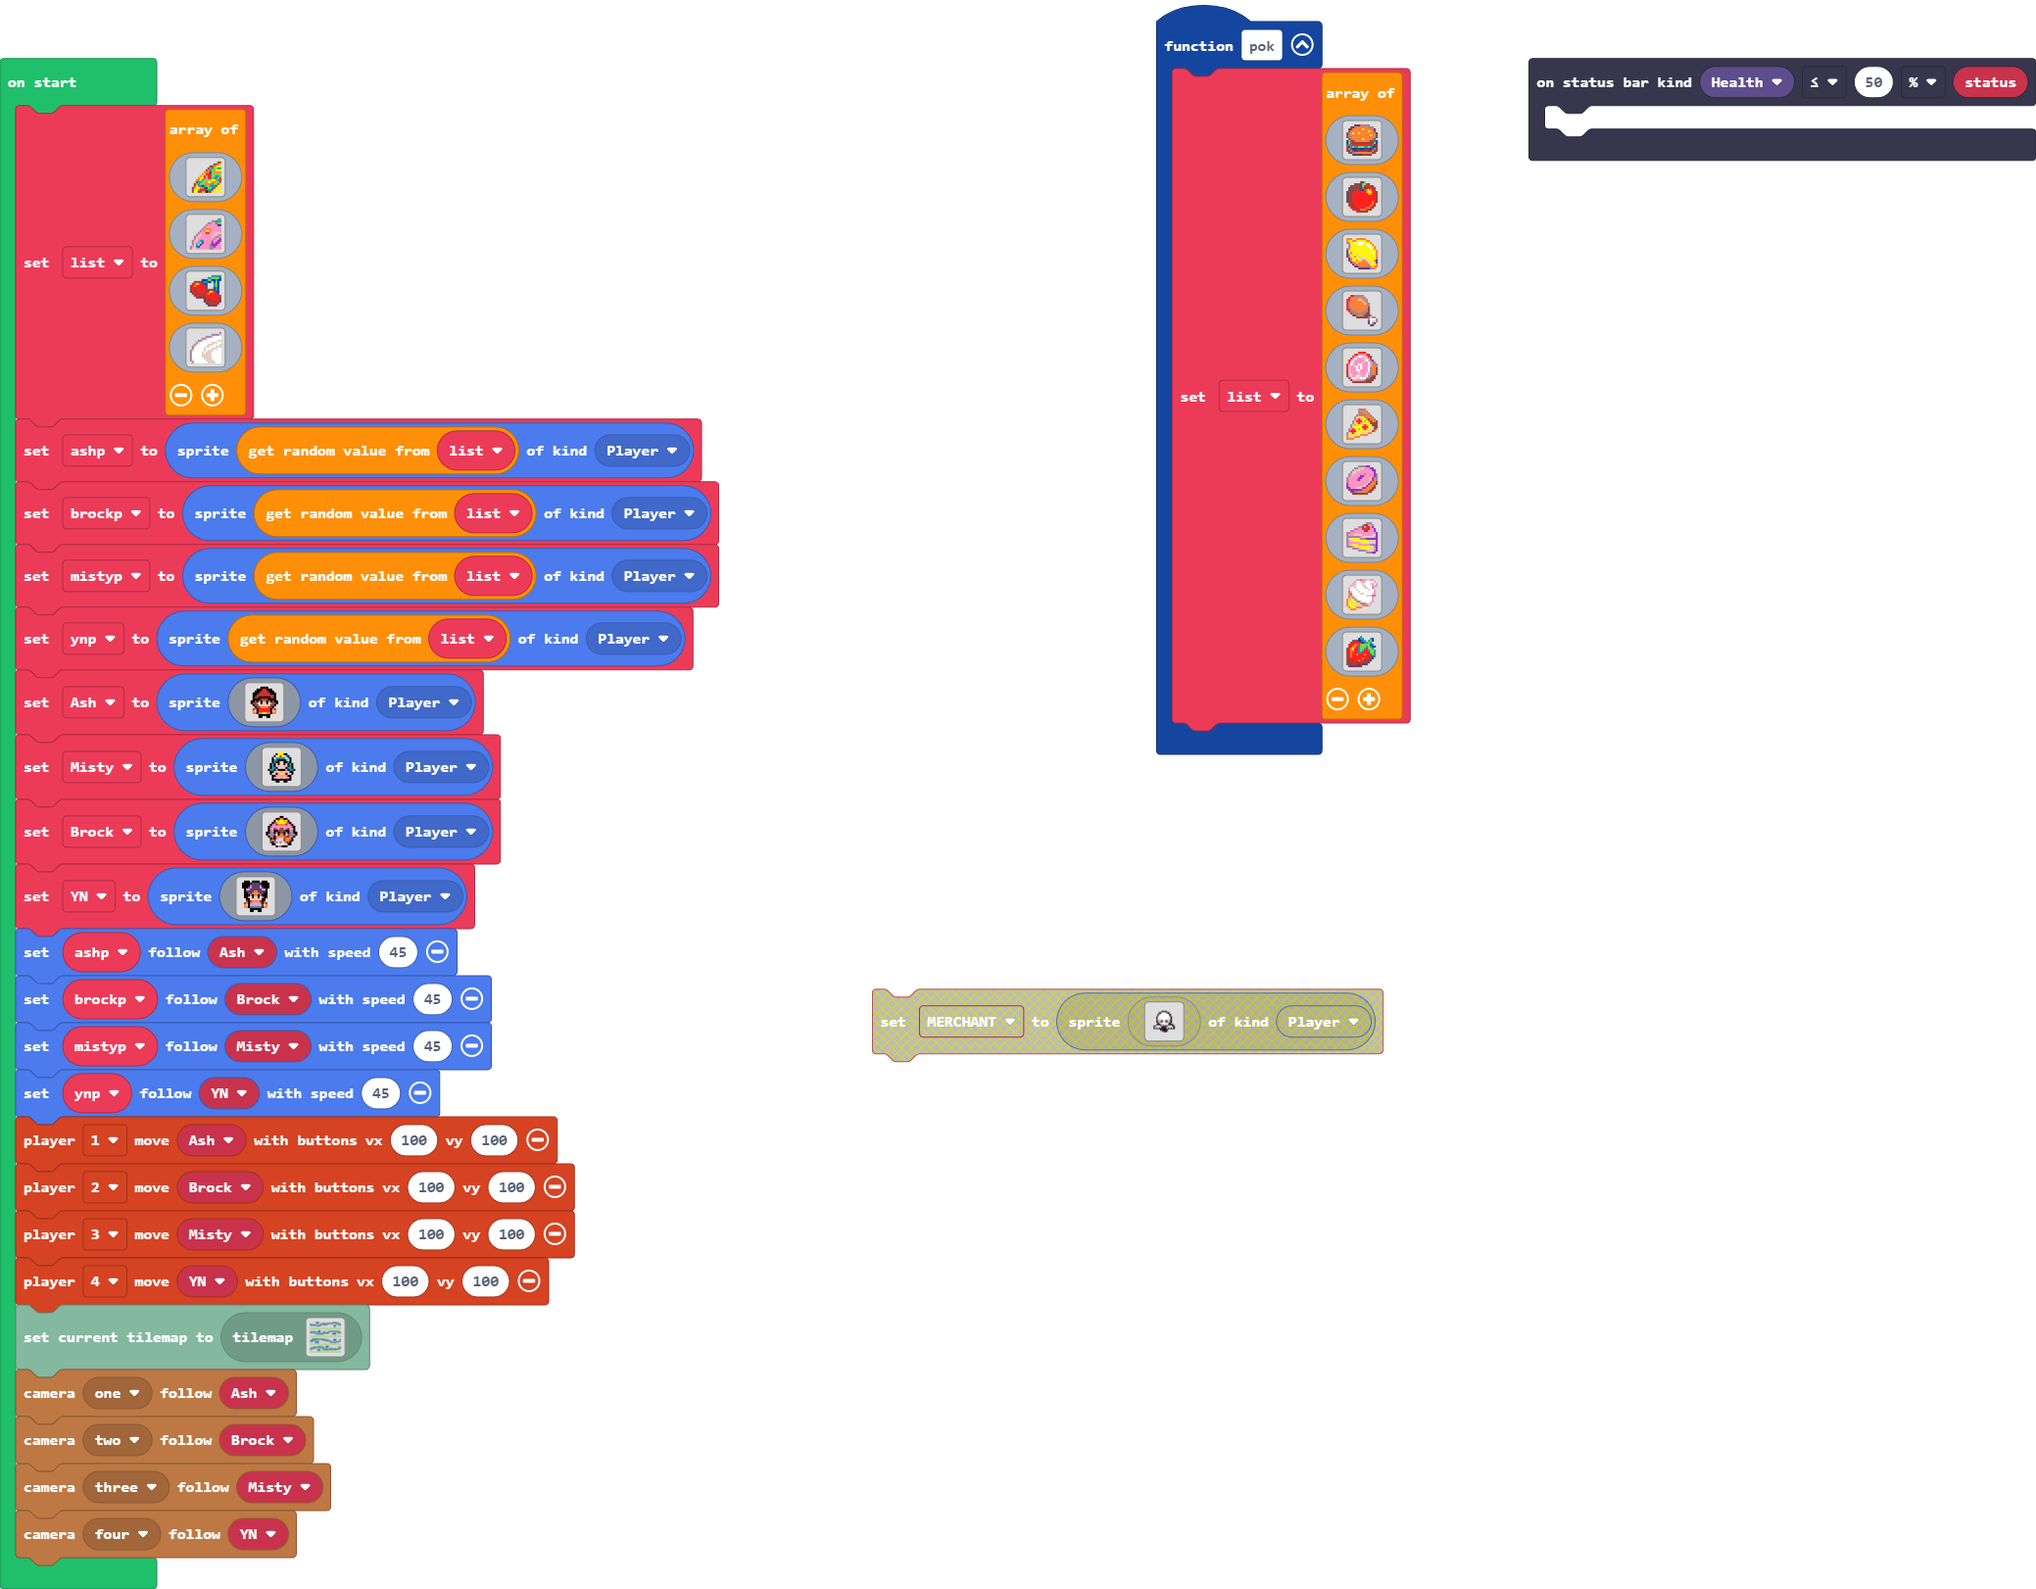
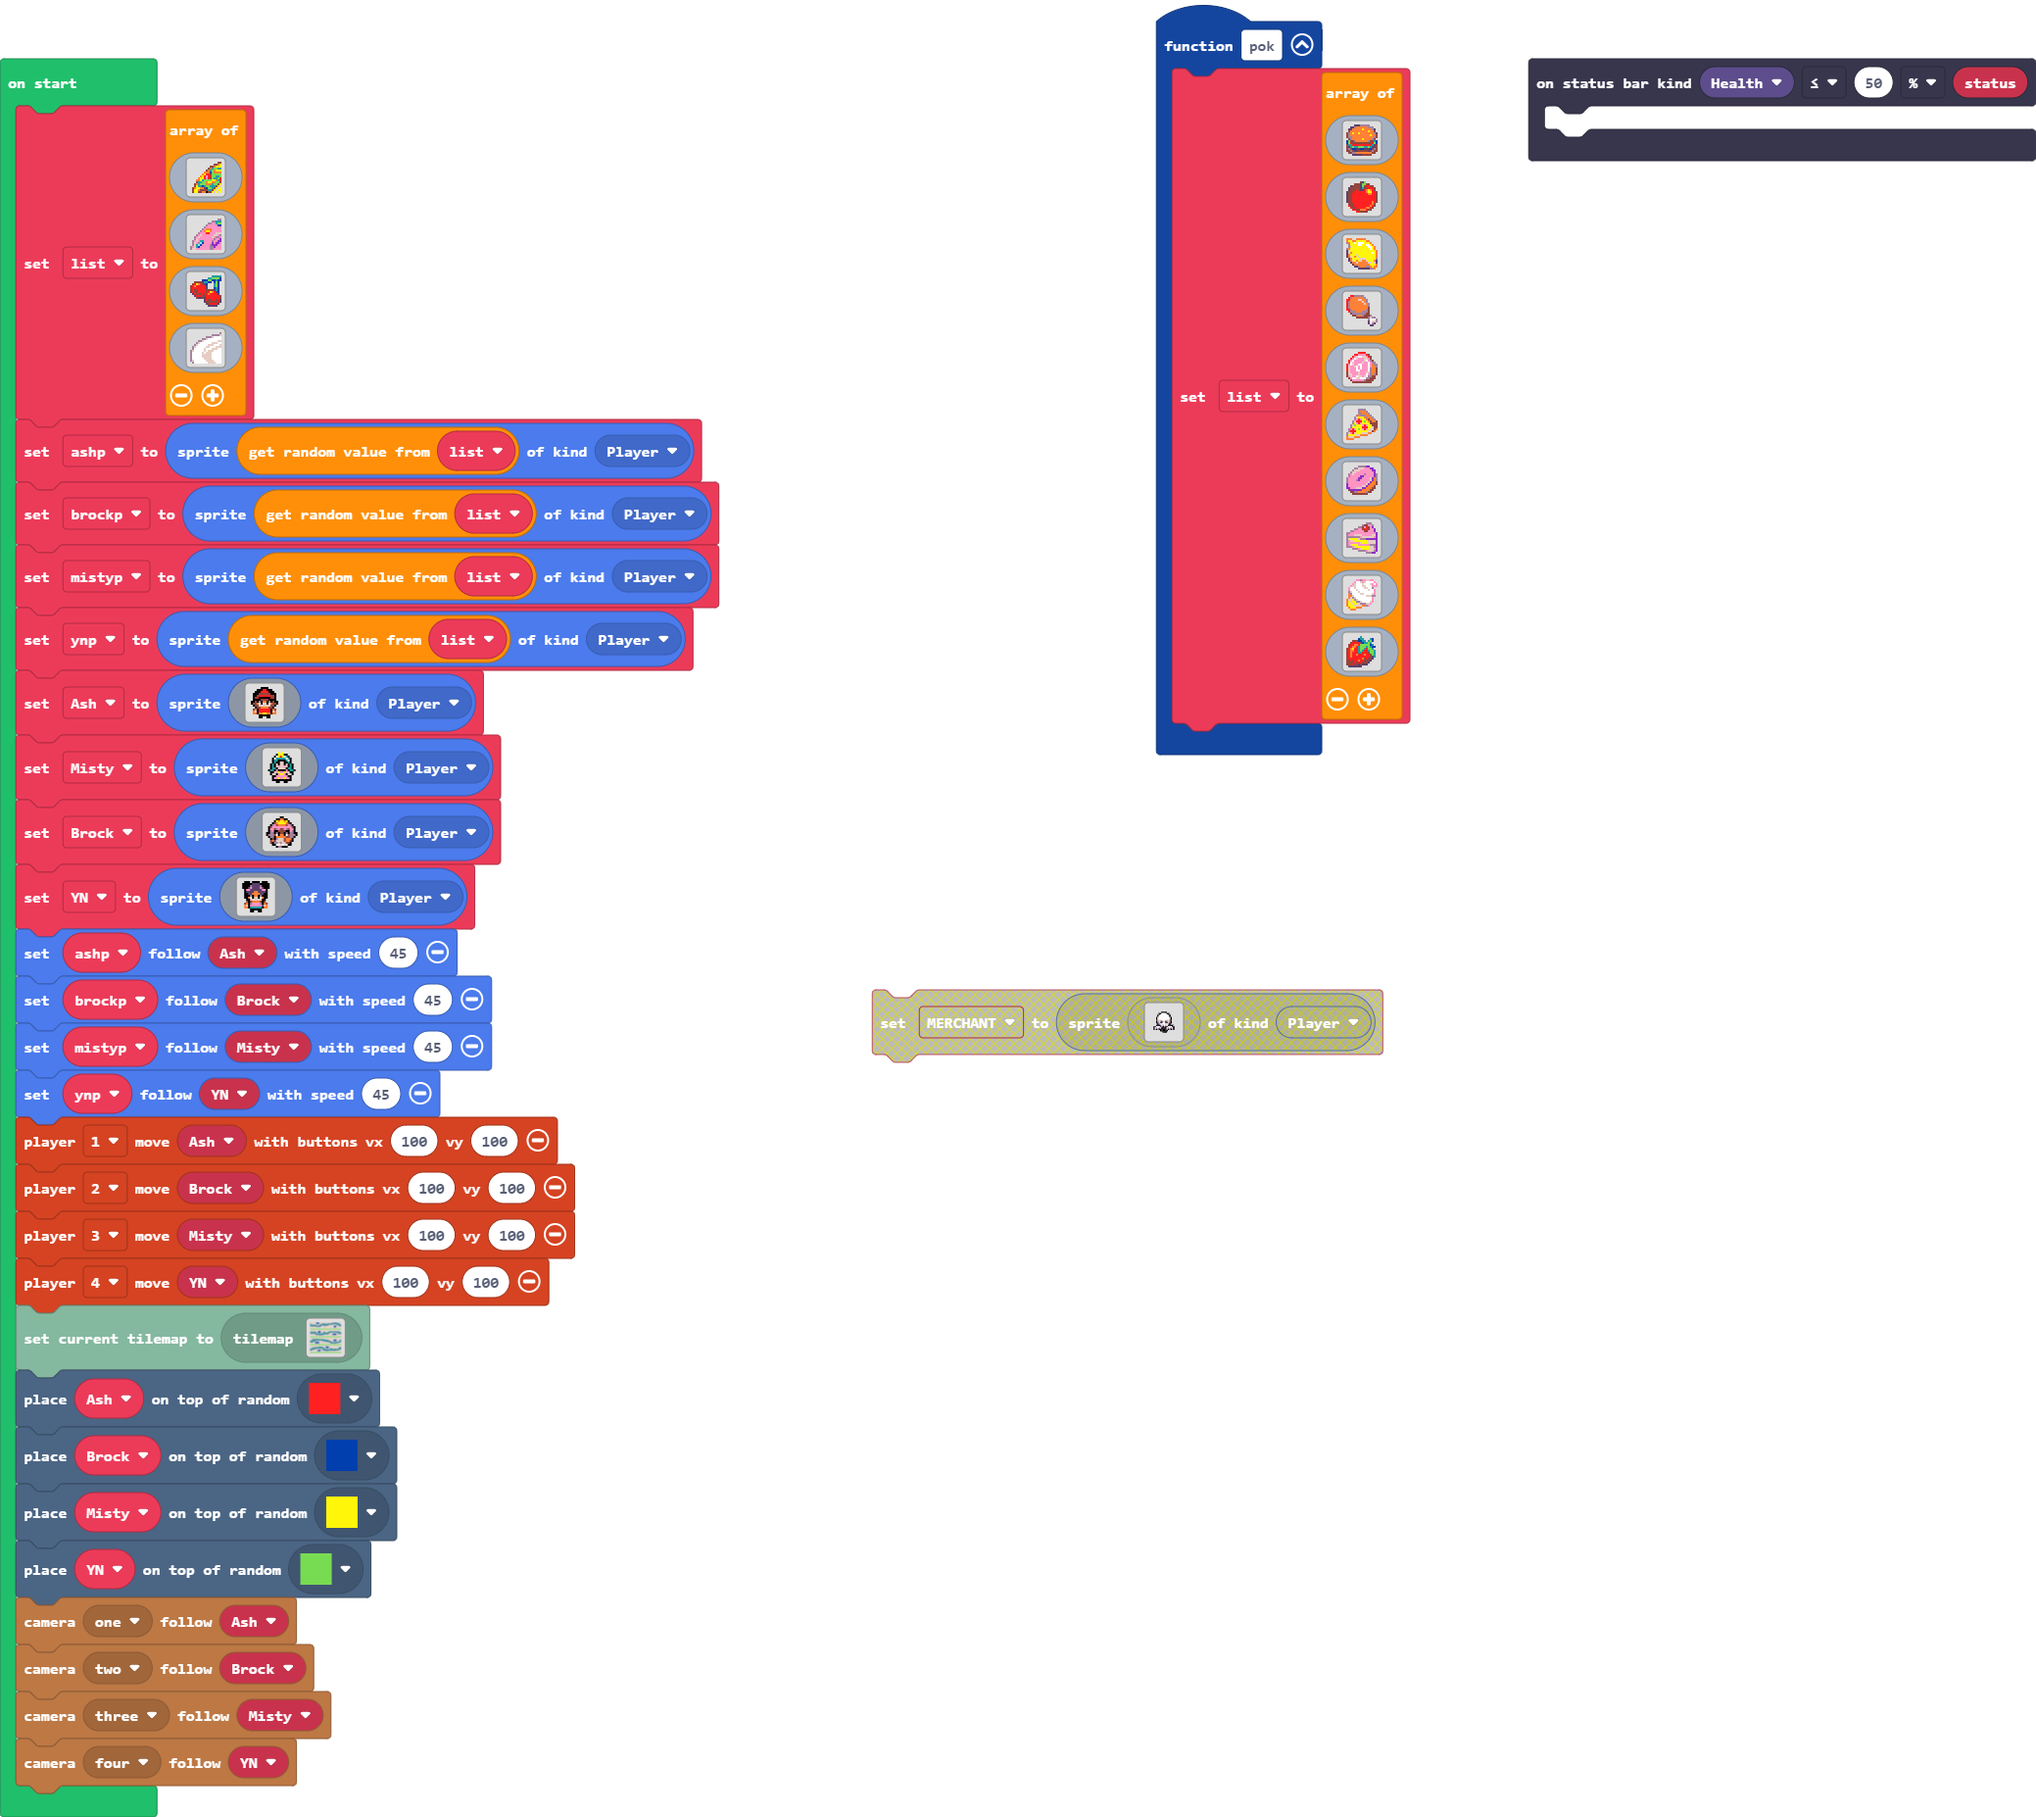
Update main.blocks, main.ts, tilemap.g.jres, tilemap.g.ts

diff --git a/tilemap.g.ts b/tilemap.g.ts
@@ -367,6 +367,25 @@ namespace myTiles {
 2222222222222222222222222222222222222222222222222222222222222222222222222222222222222222222222222222
 2222222222222222222222222222222222222222222222222222222222222222222222222222222222222222222222222222
 `, [myTiles.transparency16,sprites.castle.tilePath5,sprites.castle.tilePath8,sprites.castle.tileGrass2,myTiles.tile1,sprites.swamp.swampTile1,myTiles.tile3,myTiles.tile4,myTiles.tile5,myTiles.tile6], TileScale.Sixteen);
+            case "level15":
+            case "level15":return tiles.createTilemap(hex`1000100000000000000000000000000000000000000000000000000000000000000000000000000000000000000000000000000000000000000000000000000000000000000000000000000000000000000000000000000000000000000000000000000000000000000000000000000000000000000000000000000000000000000000000000000000000000000000000000000000000000000000000000000000000000000000000000000000000000000000000000000000000000000000000000000000000000000000000000000000000000000000000000000000000000000000000000000000000000000000000000000000000000000000000000000000000000`, img`
+. . . . . . . . . . . . . . . . 
+. . . . . . . . . . . . . . . . 
+. . . . . . . . . . . . . . . . 
+. . . . . . . . . . . . . . . . 
+. . . . . . . . . . . . . . . . 
+. . . . . . . . . . . . . . . . 
+. . . . . . . . . . . . . . . . 
+. . . . . . . . . . . . . . . . 
+. . . . . . . . . . . . . . . . 
+. . . . . . . . . . . . . . . . 
+. . . . . . . . . . . . . . . . 
+. . . . . . . . . . . . . . . . 
+. . . . . . . . . . . . . . . . 
+. . . . . . . . . . . . . . . . 
+. . . . . . . . . . . . . . . . 
+. . . . . . . . . . . . . . . . 
+`, [myTiles.transparency16], TileScale.Sixteen);
         }
         return null;
     })

diff --git a/main.ts b/main.ts
@@ -345,6 +345,10 @@ controller.player2.moveSprite(Brock, 100, 100)
 controller.player3.moveSprite(Misty, 100, 100)
 controller.player4.moveSprite(YN, 100, 100)
 tiles.loadMap(tiles.createMap(tilemap`level1`))
+tiles.placeOnRandomTile(Ash, assets.tile`myTile1`)
+tiles.placeOnRandomTile(Brock, assets.tile`myTile2`)
+tiles.placeOnRandomTile(Misty, assets.tile`myTile3`)
+tiles.placeOnRandomTile(YN, assets.tile`myTile4`)
 splitScreen.cameraFollowSprite(splitScreen.Camera.Camera1, Ash)
 splitScreen.cameraFollowSprite(splitScreen.Camera.Camera2, Brock)
 splitScreen.cameraFollowSprite(splitScreen.Camera.Camera3, Misty)
